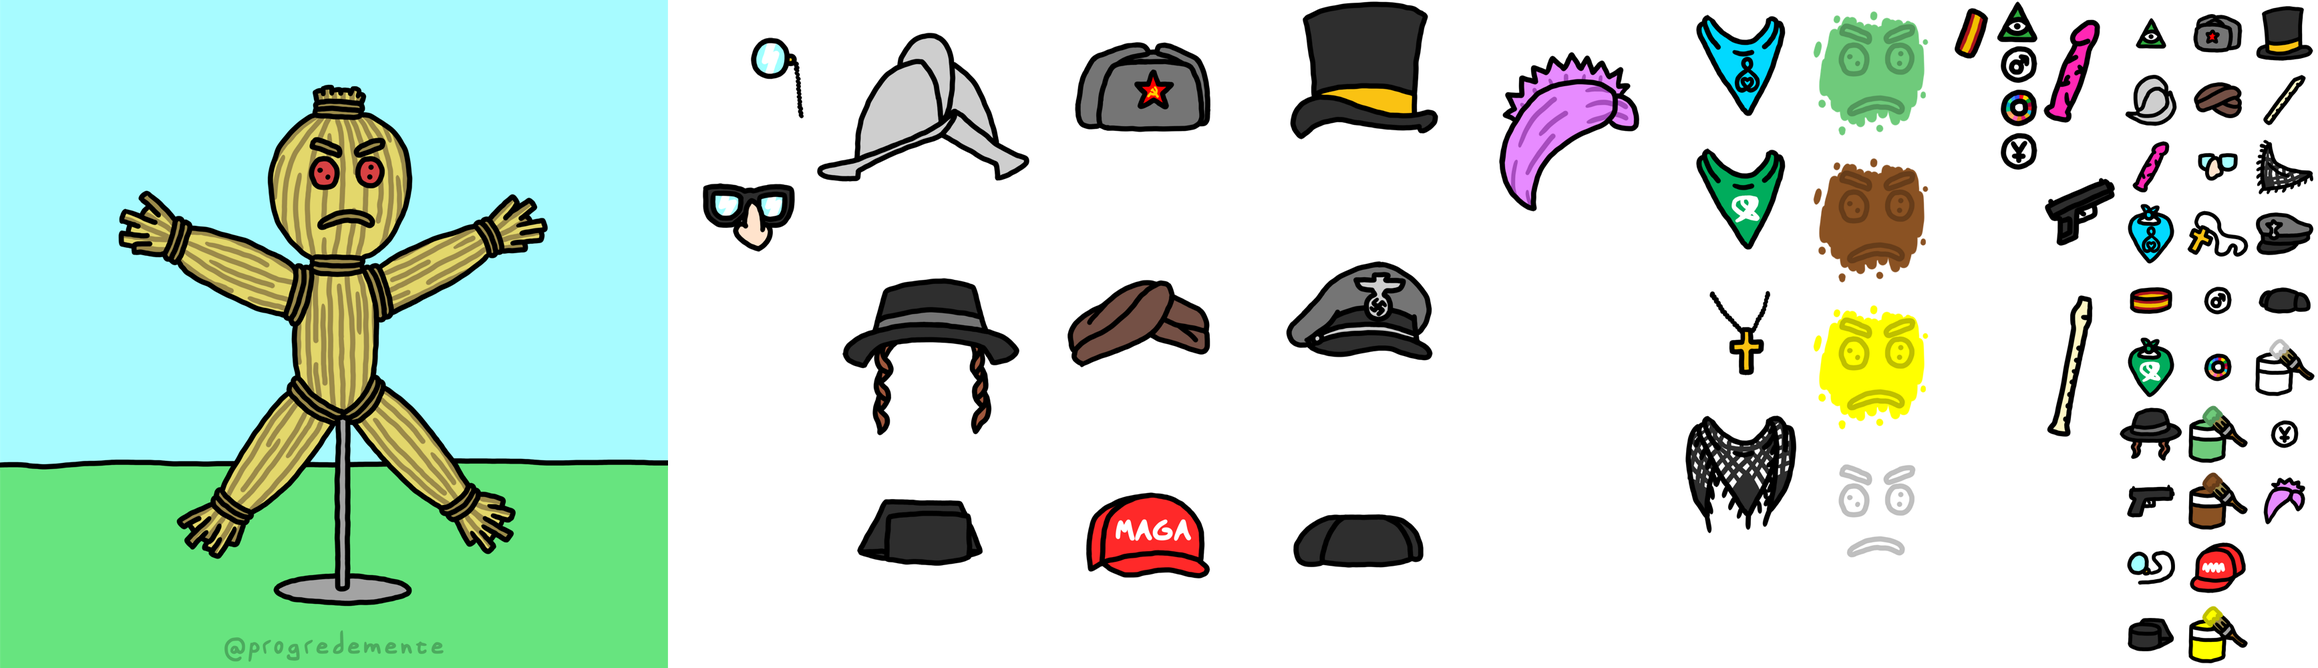
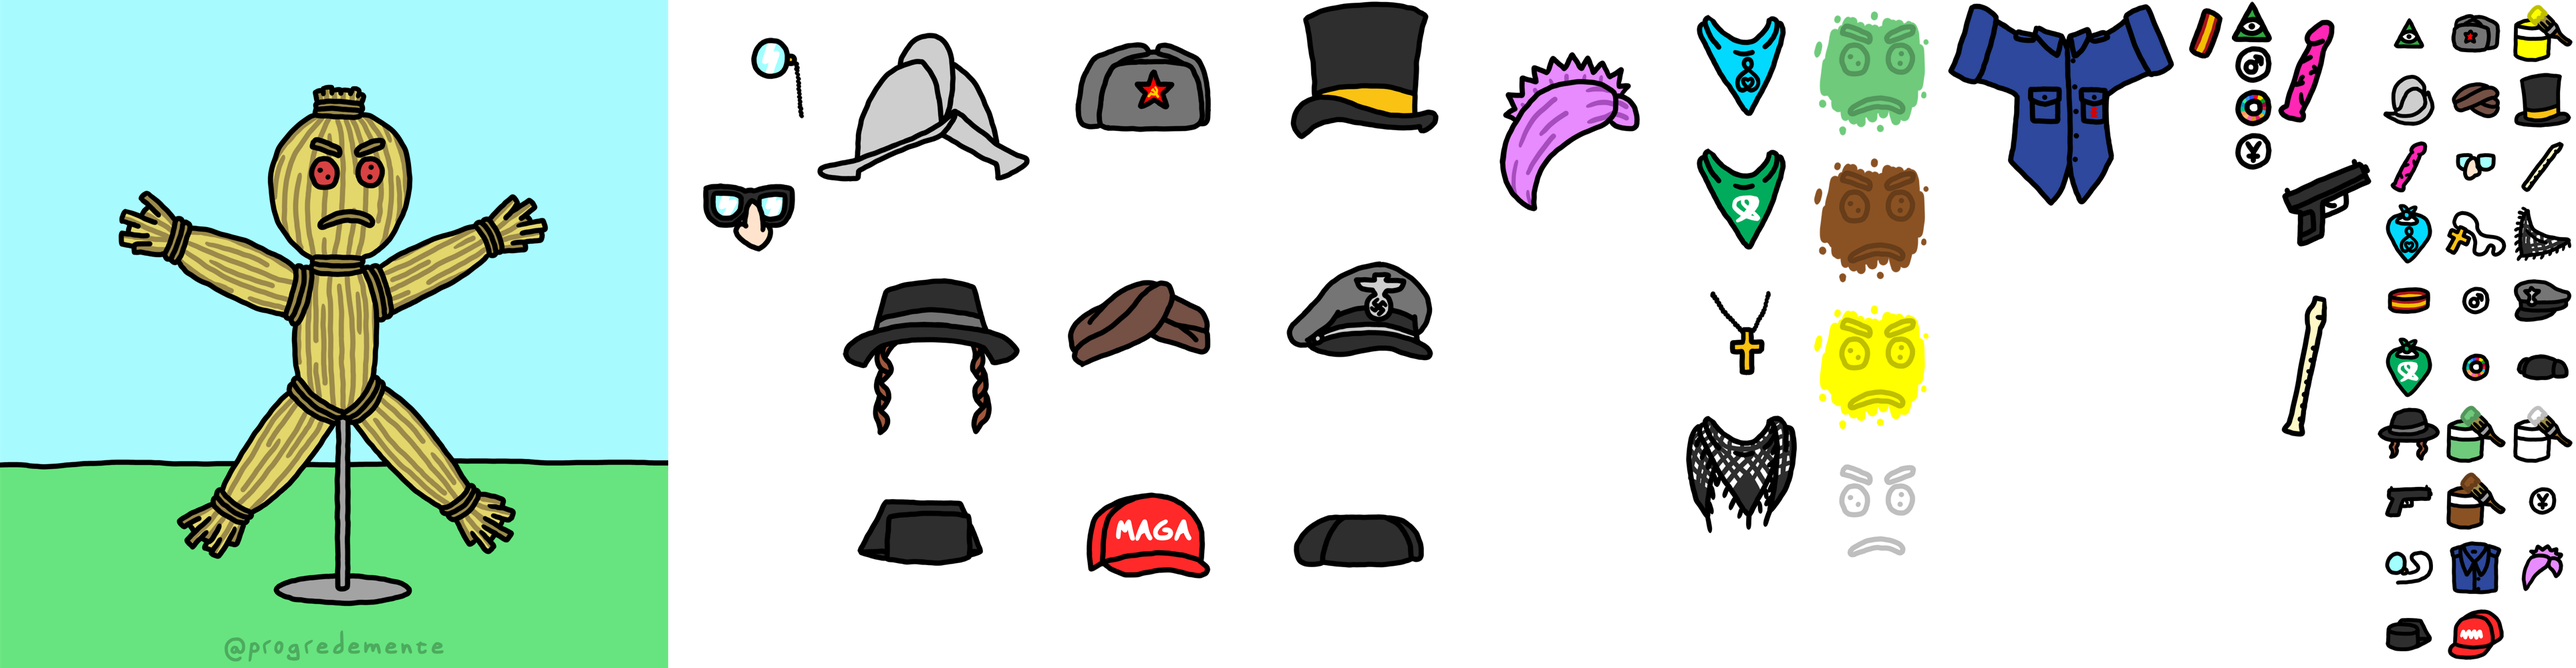
New accessories

diff --git a/docs/static/js/main.1cbbda08.chunk.js b/docs/static/js/main.1cbbda08.chunk.js
@@ -1,0 +1,2 @@
+(this.webpackJsonpstrawman=this.webpackJsonpstrawman||[]).push([[0],[,,function(e){e.exports=JSON.parse('{"2030":{"en":"2030","es":"2030"},"loading":{"en":"loading","es":"cargando"},"make":{"en":"make your own","es":"crea tu propio"},"strawman":{"en":"straw man","es":"hombre de paja"},"download":{"en":"download","es":"descargar"},"accessories":{"en":"accessories","es":"accesorios"},"head":{"en":"head","es":"cabeza"},"color":{"en":"skin color","es":"tono de piel"},"glasses":{"en":"glasses","es":"gafas"},"neck":{"en":"neck","es":"cuello"},"bracelets":{"en":"bracelets","es":"pulseras"},"badges":{"en":"badges","es":"pines"},"hand":{"en":"hand","es":"mano"},"chest":{"en":"chest","es":"pecho"},"spain":{"en":"Spain","es":"Espa\xf1a"},"illuminati":{"en":"Illuminati","es":"Illuminati"},"yunque":{"en":"El Yunque","es":"El Yunque"},"male":{"en":"male","es":"hombre"},"prochoice":{"en":"pro-choice bandana","es":"pa\xf1uelo abortero"},"prolife":{"en":"pro-life bandana","es":"pa\xf1uelo provida"},"cross":{"en":"cross necklace","es":"colgante con cruz"},"nose":{"en":"glasses with nose","es":"gafas con nariz"},"monocle":{"en":"monocle","es":"mon\xf3culo"},"green":{"en":"green","es":"verde"},"white":{"en":"white","es":"blanco"},"yellow":{"en":"yellow","es":"amarillo"},"brown":{"en":"brown","es":"marr\xf3n"},"morion":{"en":"morion","es":"morri\xf3n"},"turban":{"en":"turban","es":"turbante"},"sideburns":{"en":"hat with sideburns","es":"gorro con patillas"},"commie":{"en":"communist hat","es":"gorro comunista"},"top":{"en":"top hat","es":"chistera"},"nazi":{"en":"nazi hat","es":"gorra nazi"},"maga":{"en":"MAGA hat","es":"gorra MAGA"},"tricornio":{"en":"tricornio","es":"tricornio"},"montera":{"en":"montera","es":"montera"},"pink_hair":{"en":"pink hair","es":"pelo rosa"},"keffiyeh":{"en":"Palestinian keffiyeh","es":"palestina"},"flute":{"en":"flute","es":"flauta"},"dildo":{"en":"dildo","es":"consolador"},"gun":{"en":"gun","es":"pistola"},"blue_shirt":{"en":"blue shirt","es":"camisa azul"}}')},,,,,,,,function(e){e.exports=JSON.parse('{"hand":{"flute":{"h":220,"t":{"h":100,"y":200,"w":100,"x":3755},"y":440,"w":150,"x":3405},"dildo":{"h":220,"t":{"h":100,"y":200,"w":100,"x":3555},"y":0,"w":150,"x":3405},"gun":{"h":220,"t":{"h":100,"y":700,"w":100,"x":3555},"y":220,"w":150,"x":3405}},"head":{"top":{"h":330,"t":{"h":100,"y":100,"w":100,"x":3755},"y":0,"w":325,"x":1870},"tricornio":{"h":330,"t":{"h":100,"y":900,"w":100,"x":3555},"y":660,"w":325,"x":1220},"turban":{"h":330,"t":{"h":100,"y":100,"w":100,"x":3655},"y":330,"w":325,"x":1545},"nazi":{"h":330,"t":{"h":100,"y":400,"w":100,"x":3755},"y":330,"w":325,"x":1870},"morion":{"h":330,"t":{"h":100,"y":100,"w":100,"x":3555},"y":0,"w":325,"x":1220},"sideburns":{"h":330,"t":{"h":100,"y":600,"w":100,"x":3555},"y":330,"w":325,"x":1220},"pink_hair":{"h":330,"t":{"h":100,"y":800,"w":100,"x":3755},"y":0,"w":325,"x":2195},"maga":{"h":330,"t":{"h":100,"y":900,"w":100,"x":3655},"y":660,"w":325,"x":1545},"commie":{"h":330,"t":{"h":100,"y":0,"w":100,"x":3655},"y":0,"w":325,"x":1545},"montera":{"h":330,"t":{"h":100,"y":500,"w":100,"x":3755},"y":660,"w":325,"x":1870}},"chest":{"blue_shirt":{"h":315,"t":{"h":100,"y":800,"w":100,"x":3655},"y":0,"w":350,"x":2910}},"color":{"green":{"h":220,"t":{"h":100,"y":600,"w":100,"x":3655},"y":0,"w":220,"x":2690},"white":{"h":220,"t":{"h":100,"y":600,"w":100,"x":3755},"y":660,"w":220,"x":2690},"brown":{"h":220,"t":{"h":100,"y":700,"w":100,"x":3655},"y":220,"w":220,"x":2690},"yellow":{"h":220,"t":{"h":100,"y":0,"w":100,"x":3755},"y":440,"w":220,"x":2690}},"neck":{"keffiyeh":{"h":200,"t":{"h":100,"y":300,"w":100,"x":3755},"y":600,"w":170,"x":2520},"prolife":{"h":200,"t":{"h":100,"y":300,"w":100,"x":3555},"y":0,"w":170,"x":2520},"prochoice":{"h":200,"t":{"h":100,"y":500,"w":100,"x":3555},"y":200,"w":170,"x":2520},"cross":{"h":200,"t":{"h":100,"y":300,"w":100,"x":3655},"y":400,"w":170,"x":2520}},"strawman":{"h":1000,"y":0,"w":1000,"x":0},"bracelets":{"spain":{"h":100,"t":{"h":100,"y":400,"w":100,"x":3555},"y":0,"w":80,"x":3260}},"glasses":{"monocle":{"h":220,"t":{"h":100,"y":800,"w":100,"x":3555},"y":0,"w":220,"x":1000},"nose":{"h":220,"t":{"h":100,"y":200,"w":100,"x":3655},"y":220,"w":220,"x":1000}},"badges":{"2030":{"h":65,"t":{"h":100,"y":500,"w":100,"x":3655},"y":130,"w":65,"x":3340},"illuminati":{"h":65,"t":{"h":100,"y":0,"w":100,"x":3555},"y":0,"w":65,"x":3340},"male":{"h":65,"t":{"h":100,"y":400,"w":100,"x":3655},"y":65,"w":65,"x":3340},"yunque":{"h":65,"t":{"h":100,"y":700,"w":100,"x":3755},"y":195,"w":65,"x":3340}}}')},,,function(e){e.exports=JSON.parse('{"head":{"x":340,"y":10,"w":325,"h":330,"z":2},"color":{"x":400,"y":170,"w":220,"h":220,"z":0},"glasses":{"x":400,"y":170,"w":220,"h":220,"z":1},"neck":{"x":420,"y":355,"w":170,"h":200,"z":4},"bracelets":{"x":225,"y":310,"w":80,"h":100,"z":5},"badges":{"x":515,"y":395,"w":65,"h":65,"z":6},"hand":{"x":715,"y":230,"w":150,"h":220,"z":7},"chest":{"x":330,"y":345,"w":350,"h":315,"z":3}}')},,,,,,function(e,t,a){},function(e,t,a){},function(e,t,a){},,function(e,t,a){},function(e,t,a){},function(e,t,a){"use strict";a.r(t);var n=a(1),s=a.n(n),r=a(11),i=a.n(r),o=(a(19),a(3)),c=a(4),h=a(6),l=a(5),d=(a(20),a(14)),u=a(12),w=(a(21),function e(t){Object(o.a)(this,e),this.x=t.x,this.y=t.y,this.w=t.w,this.h=t.h}),p=function e(t,a,n,s){Object(o.a)(this,e),this.selected=!1,this.name=t,this.category=a,this.origin=new w(n),this.destination=new w(s),this.order=s.z,this.thumbnail=new w(n.t)},m=a(2),g=a(0),y=function(e){Object(h.a)(a,e);var t=Object(l.a)(a);function a(e){var s;return Object(o.a)(this,a),(s=t.call(this,e)).side=s.props.strawman.h,s.canvas=Object(n.createRef)(),s.maxScaleFactor=.7,s.state={scaleFactor:s.getScaleFactor()},s}return Object(c.a)(a,[{key:"componentDidMount",value:function(){var e=this;window.addEventListener("resize",(function(){e.setState({scaleFactor:e.getScaleFactor()})})),this.drawCanvas()}},{key:"componentDidUpdate",value:function(){this.drawCanvas()}},{key:"render",value:function(){var e=this;return Object(g.jsxs)("div",{className:"canvas-component",children:[Object(g.jsxs)("h1",{children:[Object(g.jsx)("div",{children:m.make[this.props.lang].capitalize()}),Object(g.jsx)("div",{children:m.strawman[this.props.lang].toUpperCase()})]}),Object(g.jsx)("canvas",{ref:this.canvas,width:this.side*this.state.scaleFactor,height:this.side*this.state.scaleFactor}),Object(g.jsx)("div",{className:"download",onClick:function(){e.downloadImage()},children:m.download[this.props.lang].capitalize()})]})}},{key:"drawCanvas",value:function(){var e=this.getTempCanvas(),t=this.canvas.current.getContext("2d");t.clearRect(0,0,this.side*this.state.scaleFactor,this.side*this.state.scaleFactor),t.drawImage(e,0,0,this.side*this.state.scaleFactor,this.side*this.state.scaleFactor)}},{key:"getTempCanvas",value:function(){var e=document.createElement("canvas");e.width=this.side,e.height=this.side;var t=e.getContext("2d");return this.drawImage(this.props.strawman,this.props.strawman,t),this.drawWardrobe(this.props.wardrobe,t),e}},{key:"drawWardrobe",value:function(e,t){var a,n=Object(u.a)(this.getClothes(e).sort((function(e,t){return e.order-t.order})));try{for(n.s();!(a=n.n()).done;){var s=a.value;this.drawImage(s.origin,s.destination,t)}}catch(r){n.e(r)}finally{n.f()}}},{key:"getClothes",value:function(e){var t=[];for(var a in e)e[a]instanceof p?e[a].selected&&t.push(e[a]):t.push.apply(t,Object(d.a)(this.getClothes(e[a])));return t}},{key:"drawImage",value:function(e,t,a){a.drawImage(this.props.img,e.x,e.y,e.w,e.h,t.x,t.y,t.w,t.h)}},{key:"downloadImage",value:function(){var e=document.createElement("a");e.download="strawman.png",this.getTempCanvas().toBlob((function(t){var a=URL.createObjectURL(t);e.href=a,e.click()}))}},{key:"getScaleFactor",value:function(){return window.innerWidth<this.side*this.maxScaleFactor?window.innerWidth/this.side:this.maxScaleFactor}}]),a}(n.Component),x=(a(23),a(24),function(e){Object(h.a)(a,e);var t=Object(l.a)(a);function a(){return Object(o.a)(this,a),t.apply(this,arguments)}return Object(c.a)(a,[{key:"render",value:function(){var e=this;return Object(g.jsxs)("div",{className:"garment".concat(this.props.garment.selected?" selected":""),onClick:function(){e.props.selectGarment(e.props.garment)},children:[Object(g.jsx)("img",{src:"./merge.png",style:{"--x":"".concat(this.props.garment.thumbnail.x,"px"),"--y":"".concat(this.props.garment.thumbnail.y,"px"),"--w":"".concat(this.props.garment.thumbnail.w,"px"),"--h":"".concat(this.props.garment.thumbnail.h,"px")},alt:m[this.props.garment.name][this.props.lang]}),Object(g.jsx)("figcaption",{children:m[this.props.garment.name][this.props.lang]})]})}}]),a}(n.Component)),b=x,f=function(e){Object(h.a)(a,e);var t=Object(l.a)(a);function a(){return Object(o.a)(this,a),t.apply(this,arguments)}return Object(c.a)(a,[{key:"render",value:function(){var e=this;return Object(g.jsxs)("div",{className:"wardrobe",children:[Object(g.jsx)("h1",{children:m.accessories[this.props.lang].capitalize()}),Object.keys(this.props.wardrobe).map((function(t){return Object(g.jsxs)("div",{className:"category",children:[Object(g.jsx)("span",{children:m[t][e.props.lang].capitalize()}),Object(g.jsx)("div",{className:"content",children:Object.keys(e.props.wardrobe[t]).map((function(a){return Object(g.jsx)(b,{garment:e.props.wardrobe[t][a],selectGarment:e.props.selectGarment,lang:e.props.lang},a)}))})]},t)}))]})}}]),a}(n.Component),j=f,v=a(10),O=a(13),k=function(e){Object(h.a)(a,e);var t=Object(l.a)(a);function a(e){var n,s;Object(o.a)(this,a),(n=t.call(this,e)).selectGarment=function(e){if(!e.selected)for(var t in e.category){var a=e.category[t];a!==e&&(a.selected=!1)}e.selected=!e.selected,n.setState({})};try{s=navigator.language.toLowerCase().split("-")[0]}catch(r){}return["en","es"].includes(s)||(s="en"),n.state={wardrobe:n.getWardrobe(v,O),lang:s,loaded:!1},n}return Object(c.a)(a,[{key:"componentDidMount",value:function(){var e=this;this.img=new Image,this.img.src="./merge.png",this.img.onload=function(){e.setState({loaded:!0})}}},{key:"getWardrobe",value:function(e,t){var a={};for(var n in e)if("strawman"!==n)for(var s in a[n]={},e[n])a[n][s]=new p(s,a[n],e[n][s],t[n]);return a}},{key:"render",value:function(){return Object(g.jsxs)(g.Fragment,{children:[this.state.loaded&&Object(g.jsxs)("div",{className:"app",children:[Object(g.jsx)(y,{wardrobe:this.state.wardrobe,strawman:new w(v.strawman),lang:this.state.lang,img:this.img}),Object(g.jsx)(j,{wardrobe:this.state.wardrobe,selectGarment:this.selectGarment,lang:this.state.lang})]}),!this.state.loaded&&Object(g.jsxs)("div",{className:"loading",children:[Object(g.jsx)("img",{src:"./favicon.png",alt:m.loading[this.state.lang]}),m.loading[this.state.lang]]})]})}}]),a}(n.Component),z=function(e){e&&e instanceof Function&&a.e(3).then(a.bind(null,26)).then((function(t){var a=t.getCLS,n=t.getFID,s=t.getFCP,r=t.getLCP,i=t.getTTFB;a(e),n(e),s(e),r(e),i(e)}))};String.prototype.capitalize=function(){return this[0].toUpperCase()+this.substr(1,this.length)},i.a.render(Object(g.jsx)(s.a.StrictMode,{children:Object(g.jsx)(k,{})}),document.getElementById("root")),z()}],[[25,1,2]]]);
+//# sourceMappingURL=main.1cbbda08.chunk.js.map

diff --git a/docs/index.html b/docs/index.html
@@ -1,1 +1,1 @@
-<!doctype html><html lang="en"><head><meta charset="utf-8"/><link rel="icon" href="./favicon.png"/><meta name="viewport" content="width=device-width,initial-scale=1"/><meta name="theme-color" content="#000000"/><meta name="description" content="Web site created using create-react-app"/><link rel="apple-touch-icon" href="./logo192.png"/><link rel="manifest" href="./manifest.json"/><title>Straw man</title><link href="./static/css/main.df0759d8.chunk.css" rel="stylesheet"></head><body><noscript>You need to enable JavaScript to run this app.</noscript><div id="root"></div><script>!function(e){function r(r){for(var n,a,i=r[0],c=r[1],l=r[2],s=0,p=[];s<i.length;s++)a=i[s],Object.prototype.hasOwnProperty.call(o,a)&&o[a]&&p.push(o[a][0]),o[a]=0;for(n in c)Object.prototype.hasOwnProperty.call(c,n)&&(e[n]=c[n]);for(f&&f(r);p.length;)p.shift()();return u.push.apply(u,l||[]),t()}function t(){for(var e,r=0;r<u.length;r++){for(var t=u[r],n=!0,i=1;i<t.length;i++){var c=t[i];0!==o[c]&&(n=!1)}n&&(u.splice(r--,1),e=a(a.s=t[0]))}return e}var n={},o={1:0},u=[];function a(r){if(n[r])return n[r].exports;var t=n[r]={i:r,l:!1,exports:{}};return e[r].call(t.exports,t,t.exports,a),t.l=!0,t.exports}a.e=function(e){var r=[],t=o[e];if(0!==t)if(t)r.push(t[2]);else{var n=new Promise((function(r,n){t=o[e]=[r,n]}));r.push(t[2]=n);var u,i=document.createElement("script");i.charset="utf-8",i.timeout=120,a.nc&&i.setAttribute("nonce",a.nc),i.src=function(e){return a.p+"static/js/"+({}[e]||e)+"."+{3:"6449b234"}[e]+".chunk.js"}(e);var c=new Error;u=function(r){i.onerror=i.onload=null,clearTimeout(l);var t=o[e];if(0!==t){if(t){var n=r&&("load"===r.type?"missing":r.type),u=r&&r.target&&r.target.src;c.message="Loading chunk "+e+" failed.\n("+n+": "+u+")",c.name="ChunkLoadError",c.type=n,c.request=u,t[1](c)}o[e]=void 0}};var l=setTimeout((function(){u({type:"timeout",target:i})}),12e4);i.onerror=i.onload=u,document.head.appendChild(i)}return Promise.all(r)},a.m=e,a.c=n,a.d=function(e,r,t){a.o(e,r)||Object.defineProperty(e,r,{enumerable:!0,get:t})},a.r=function(e){"undefined"!=typeof Symbol&&Symbol.toStringTag&&Object.defineProperty(e,Symbol.toStringTag,{value:"Module"}),Object.defineProperty(e,"__esModule",{value:!0})},a.t=function(e,r){if(1&r&&(e=a(e)),8&r)return e;if(4&r&&"object"==typeof e&&e&&e.__esModule)return e;var t=Object.create(null);if(a.r(t),Object.defineProperty(t,"default",{enumerable:!0,value:e}),2&r&&"string"!=typeof e)for(var n in e)a.d(t,n,function(r){return e[r]}.bind(null,n));return t},a.n=function(e){var r=e&&e.__esModule?function(){return e.default}:function(){return e};return a.d(r,"a",r),r},a.o=function(e,r){return Object.prototype.hasOwnProperty.call(e,r)},a.p="./",a.oe=function(e){throw console.error(e),e};var i=this.webpackJsonpstrawman=this.webpackJsonpstrawman||[],c=i.push.bind(i);i.push=r,i=i.slice();for(var l=0;l<i.length;l++)r(i[l]);var f=c;t()}([])</script><script src="./static/js/2.21a2c000.chunk.js"></script><script src="./static/js/main.506c0227.chunk.js"></script></body></html>
+<!doctype html><html lang="en"><head><meta charset="utf-8"/><link rel="icon" href="./favicon.png"/><meta name="viewport" content="width=device-width,initial-scale=1"/><meta name="theme-color" content="#000000"/><meta name="description" content="Web site created using create-react-app"/><link rel="apple-touch-icon" href="./logo192.png"/><link rel="manifest" href="./manifest.json"/><title>Straw man</title><link href="./static/css/main.df0759d8.chunk.css" rel="stylesheet"></head><body><noscript>You need to enable JavaScript to run this app.</noscript><div id="root"></div><script>!function(e){function r(r){for(var n,a,i=r[0],c=r[1],l=r[2],s=0,p=[];s<i.length;s++)a=i[s],Object.prototype.hasOwnProperty.call(o,a)&&o[a]&&p.push(o[a][0]),o[a]=0;for(n in c)Object.prototype.hasOwnProperty.call(c,n)&&(e[n]=c[n]);for(f&&f(r);p.length;)p.shift()();return u.push.apply(u,l||[]),t()}function t(){for(var e,r=0;r<u.length;r++){for(var t=u[r],n=!0,i=1;i<t.length;i++){var c=t[i];0!==o[c]&&(n=!1)}n&&(u.splice(r--,1),e=a(a.s=t[0]))}return e}var n={},o={1:0},u=[];function a(r){if(n[r])return n[r].exports;var t=n[r]={i:r,l:!1,exports:{}};return e[r].call(t.exports,t,t.exports,a),t.l=!0,t.exports}a.e=function(e){var r=[],t=o[e];if(0!==t)if(t)r.push(t[2]);else{var n=new Promise((function(r,n){t=o[e]=[r,n]}));r.push(t[2]=n);var u,i=document.createElement("script");i.charset="utf-8",i.timeout=120,a.nc&&i.setAttribute("nonce",a.nc),i.src=function(e){return a.p+"static/js/"+({}[e]||e)+"."+{3:"6449b234"}[e]+".chunk.js"}(e);var c=new Error;u=function(r){i.onerror=i.onload=null,clearTimeout(l);var t=o[e];if(0!==t){if(t){var n=r&&("load"===r.type?"missing":r.type),u=r&&r.target&&r.target.src;c.message="Loading chunk "+e+" failed.\n("+n+": "+u+")",c.name="ChunkLoadError",c.type=n,c.request=u,t[1](c)}o[e]=void 0}};var l=setTimeout((function(){u({type:"timeout",target:i})}),12e4);i.onerror=i.onload=u,document.head.appendChild(i)}return Promise.all(r)},a.m=e,a.c=n,a.d=function(e,r,t){a.o(e,r)||Object.defineProperty(e,r,{enumerable:!0,get:t})},a.r=function(e){"undefined"!=typeof Symbol&&Symbol.toStringTag&&Object.defineProperty(e,Symbol.toStringTag,{value:"Module"}),Object.defineProperty(e,"__esModule",{value:!0})},a.t=function(e,r){if(1&r&&(e=a(e)),8&r)return e;if(4&r&&"object"==typeof e&&e&&e.__esModule)return e;var t=Object.create(null);if(a.r(t),Object.defineProperty(t,"default",{enumerable:!0,value:e}),2&r&&"string"!=typeof e)for(var n in e)a.d(t,n,function(r){return e[r]}.bind(null,n));return t},a.n=function(e){var r=e&&e.__esModule?function(){return e.default}:function(){return e};return a.d(r,"a",r),r},a.o=function(e,r){return Object.prototype.hasOwnProperty.call(e,r)},a.p="./",a.oe=function(e){throw console.error(e),e};var i=this.webpackJsonpstrawman=this.webpackJsonpstrawman||[],c=i.push.bind(i);i.push=r,i=i.slice();for(var l=0;l<i.length;l++)r(i[l]);var f=c;t()}([])</script><script src="./static/js/2.21a2c000.chunk.js"></script><script src="./static/js/main.1cbbda08.chunk.js"></script></body></html>
